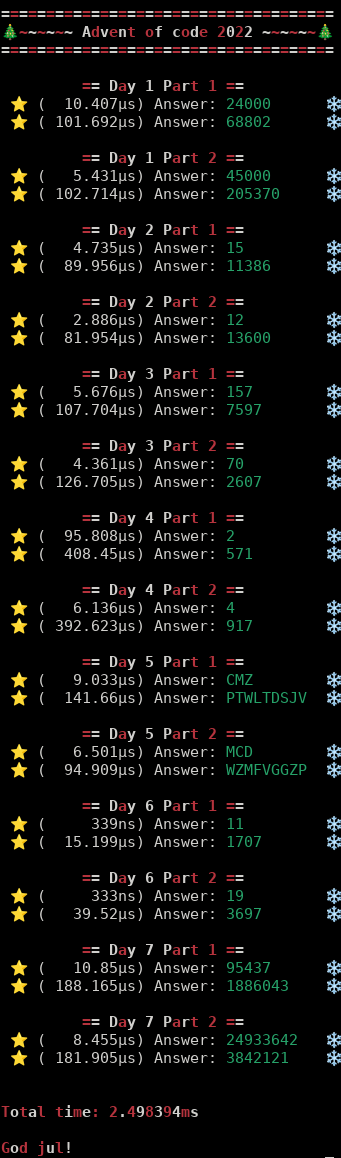
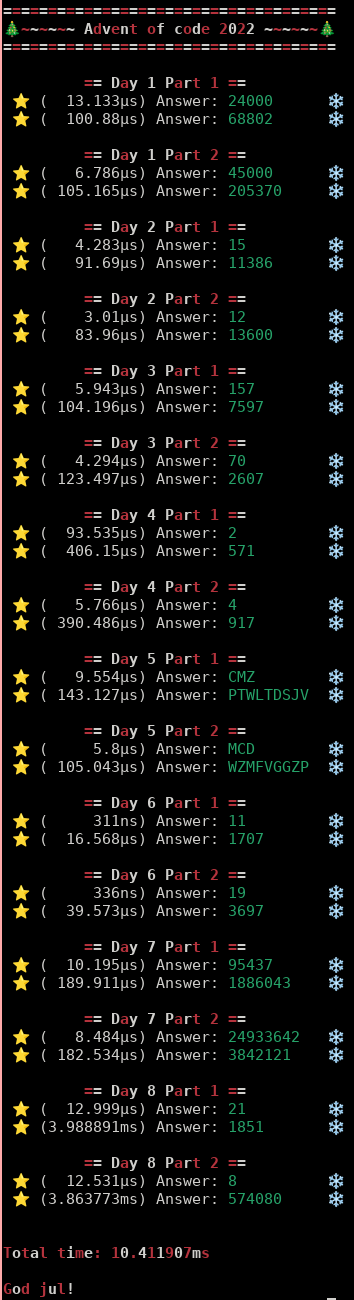
day8

Changed region(s): [[0.0, 0.0, 1.0, 1.0], [0.9091, 0.9948, 0.9677, 1.0], [0.1173, 0.4041, 0.1466, 0.4352]]

diff --git a/src/days/day8.rs b/src/days/day8.rs
@@ -25,11 +25,22 @@ struct TreeVisible {
     visible_down: bool,
     visible_left: bool,
     visible_right: bool,
+    scenic_score_up: i32,
+    scenic_score_down: i32,
+    scenic_score_left: i32,
+    scenic_score_right: i32,
 }
 
 impl TreeVisible {
     pub fn is_visible(&self) -> bool {
         self.visible_up || self.visible_down || self.visible_left || self.visible_right
+    }
+
+    pub fn scenic_score(&self) -> i32 {
+        self.scenic_score_up
+            * self.scenic_score_down
+            * self.scenic_score_left
+            * self.scenic_score_right
     }
 }
 
@@ -52,11 +63,21 @@ impl Forrest {
         let tree_val = self
             .get_tree_value(pos.0, pos.1)
             .expect("tree should be here");
+
+        let visible_up = self.is_visible(Direction::UP, (pos.0, pos.1 - 1), -1, &tree_val, 0);
+        let visible_down = self.is_visible(Direction::DOWN, (pos.0, pos.1 + 1), -1, &tree_val, 0);
+        let visible_left = self.is_visible(Direction::LEFT, (pos.0 - 1, pos.1), -1, &tree_val, 0);
+        let visible_right = self.is_visible(Direction::RIGHT, (pos.0 + 1, pos.1), -1, &tree_val, 0);
+
         return TreeVisible {
-            visible_up: self.is_visible(Direction::UP, (pos.0, pos.1 - 1), -1, &tree_val, 0),
-            visible_down: self.is_visible(Direction::DOWN, (pos.0, pos.1 + 1), -1, &tree_val, 0),
-            visible_left: self.is_visible(Direction::LEFT, (pos.0 - 1, pos.1), -1, &tree_val, 0),
-            visible_right: self.is_visible(Direction::RIGHT, (pos.0 + 1, pos.1), -1, &tree_val, 0),
+            visible_up: visible_up.0,
+            visible_down: visible_down.0,
+            visible_left: visible_left.0,
+            visible_right: visible_right.0,
+            scenic_score_up: visible_up.1,
+            scenic_score_down: visible_down.1,
+            scenic_score_left: visible_left.1,
+            scenic_score_right: visible_right.1,
         };
     }
 
@@ -67,9 +88,9 @@ impl Forrest {
         max_val: i32,
         tree_value: &i32,
         it: i32,
-    ) -> bool {
+    ) -> (bool, i32) {
         if max_val >= *tree_value {
-            return false;
+            return (false, it);
         }
 
         let current_tree_val = self.get_tree_value(next_pos.0, next_pos.1);
@@ -83,7 +104,7 @@ impl Forrest {
                     &tree_value,
                     it + 1,
                 ),
-                None => true,
+                None => (true, it),
             },
             Direction::DOWN => match current_tree_val {
                 Some(next_val) => self.is_visible(
@@ -93,7 +114,7 @@ impl Forrest {
                     tree_value,
                     it + 1,
                 ),
-                None => true,
+                None => (true, it),
             },
             Direction::LEFT => match current_tree_val {
                 Some(next_val) => self.is_visible(
@@ -103,7 +124,7 @@ impl Forrest {
                     tree_value,
                     it + 1,
                 ),
-                None => true,
+                None => (true, it),
             },
             Direction::RIGHT => match current_tree_val {
                 Some(next_val) => self.is_visible(
@@ -113,7 +134,7 @@ impl Forrest {
                     tree_value,
                     it + 1,
                 ),
-                None => true,
+                None => (true, it),
             },
         }
     }
@@ -149,7 +170,27 @@ impl Day8 {
     }
 
     fn solve2(data: String) -> String {
-        "2".to_string()
+        let res = Vec::from_iter(data.split("\n").map(String::from));
+        let mut forrest = Forrest::new();
+
+        for (y, line) in res.iter().enumerate() {
+            for (x, v) in line
+                .chars()
+                .map(|x| x.to_string().parse::<i32>().unwrap())
+                .enumerate()
+            {
+                forrest.add_trees(x as i32, y as i32, v);
+            }
+        }
+
+        return forrest
+            .trees
+            .iter()
+            .map(|f| forrest.is_tree_visible((f.0 .0, f.0 .1)))
+            .map(|f| f.scenic_score())
+            .max()
+            .expect("OOh noes")
+            .to_string();
     }
 }
 
@@ -173,8 +214,7 @@ impl Solution for Day8 {
     fn solve_example2(&self) -> Answer {
         let instant = self.timer_start();
         let data = read_file_str(&get_path(Files::Example1, self.get_day()));
-        //       let solution = Day8::solve2(data);
-        let solution = "1";
+        let solution = Day8::solve2(data);
 
         return Answer::new(&solution.to_string(), instant.elapsed());
     }
@@ -182,8 +222,7 @@ impl Solution for Day8 {
     fn solve_part2(&self) -> Answer {
         let instant = self.timer_start();
         let data = read_file_str(&get_path(Files::Part1, self.get_day()));
-        //      let solution = Day8::solve2(data);
-        let solution = "1";
+        let solution = Day8::solve2(data);
 
         return Answer::new(&solution.to_string(), instant.elapsed());
     }

diff --git a/benches/aoc_benchmark.rs b/benches/aoc_benchmark.rs
@@ -1,5 +1,5 @@
 use criterion::{criterion_group, criterion_main, Criterion};
-use rust_aoc2022::days::{Day1, Day2, Day3, Day4, Day5, Day6, Day7, Solution};
+use rust_aoc2022::days::{Day1, Day2, Day3, Day4, Day5, Day6, Day7, Day8, Solution};
 
 fn day_1_part_1(c: &mut Criterion) {
     let day1 = Day1::new();
@@ -99,6 +99,20 @@ fn day_7_part_2(c: &mut Criterion) {
     });
 }
 
+fn day_8_part_1(c: &mut Criterion) {
+    let day8 = Day8::new();
+    c.bench_function("Day 8 Part 1", |b| {
+        b.iter(|| day8.solve_part1());
+    });
+}
+
+fn day_8_part_2(c: &mut Criterion) {
+    let day8 = Day8::new();
+    c.bench_function("Day 8 Part 2", |b| {
+        b.iter(|| day8.solve_part2());
+    });
+}
+
 criterion_group!(
     benches,
     day_1_part_1,
@@ -115,5 +129,7 @@ criterion_group!(
     day_6_part_2,
     day_7_part_1,
     day_7_part_2,
+    day_8_part_1,
+    day_8_part_2,
 );
 criterion_main!(benches);
